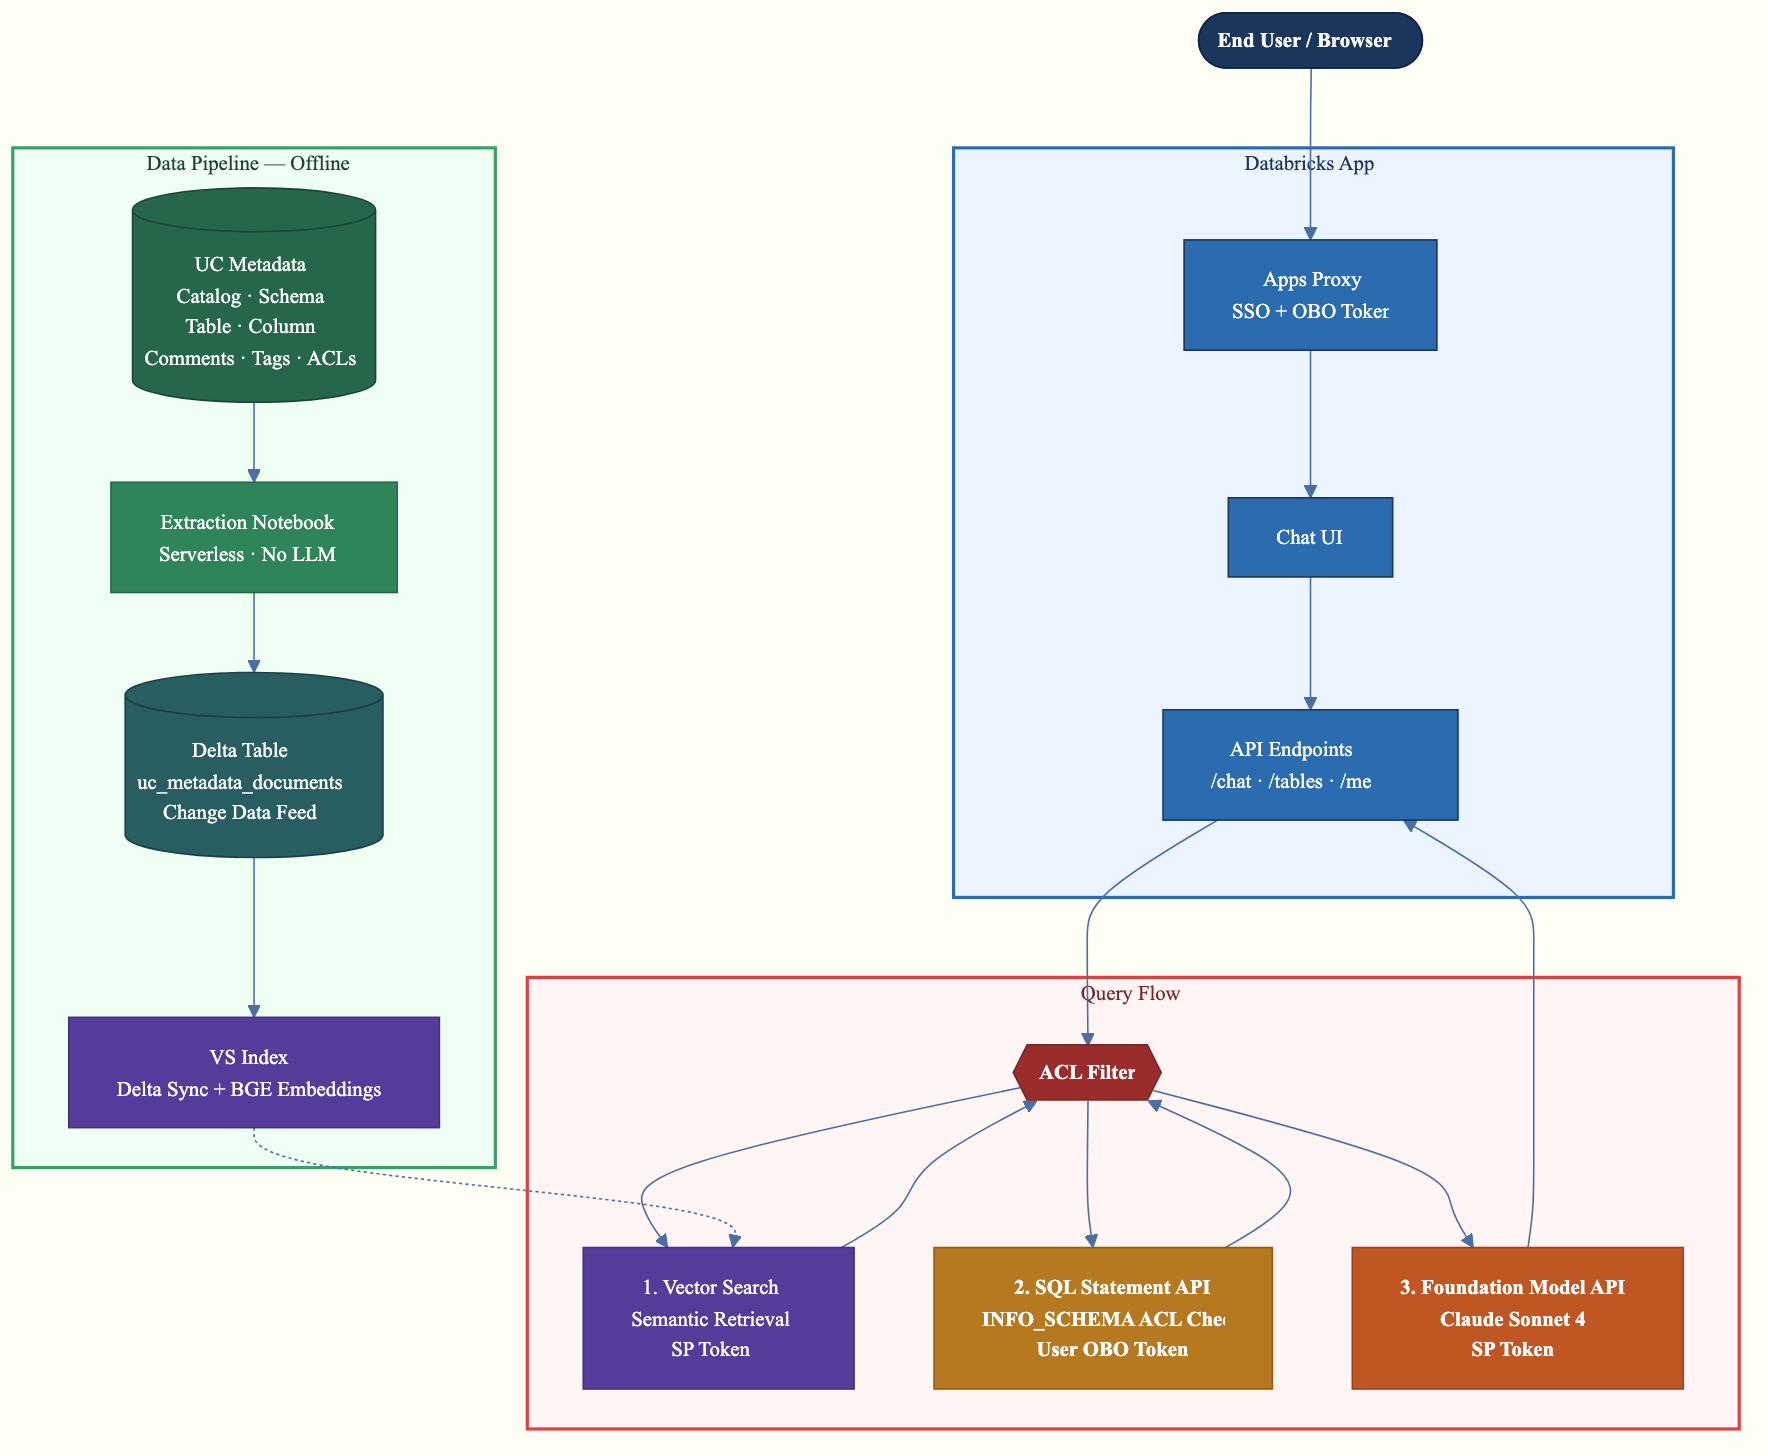
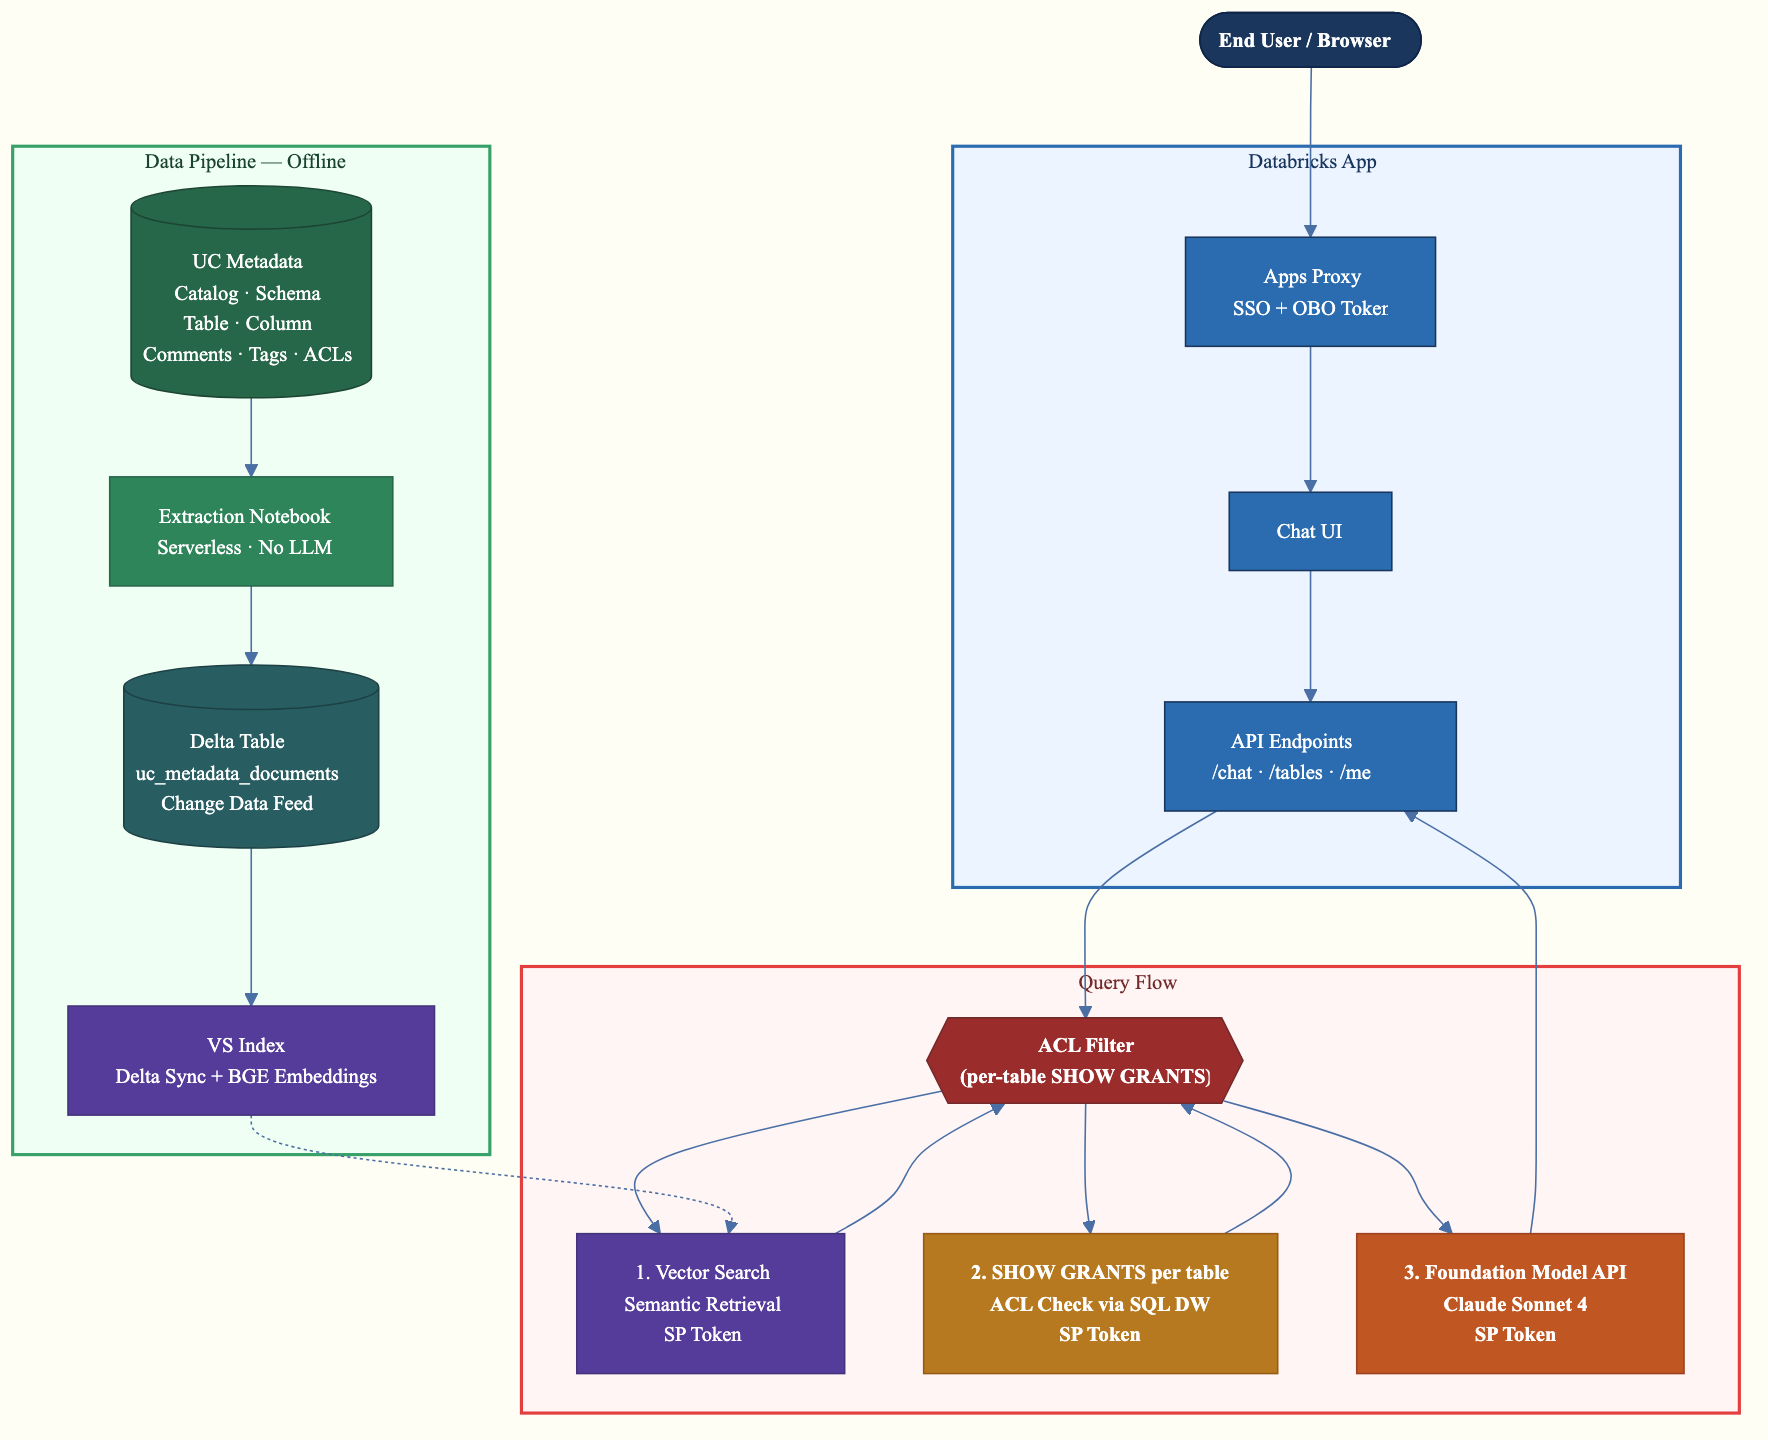
Update README and diagram for per-table SHOW GRANTS ACL
- README: Document new per-table SHOW GRANTS flow, remove OBO token
  references from auth model, update ACL section with fail-closed detail
- Diagram: Update SQL node to "SHOW GRANTS per table" with SP Token,
  update ACL filter label

diff --git a/README.md b/README.md
@@ -10,8 +10,7 @@ Descriptions are sourced directly from **user-authored UC comments** at the cata
 
 - **Natural Language Data Discovery** — Ask questions about your data catalog in plain English. The agent retrieves relevant table metadata via semantic search and generates detailed answers using an LLM.
 - **User-Authored Descriptions** — Indexes existing comments from Unity Catalog at every level (catalog, schema, table, column) plus tags. No LLM-generated descriptions — what users documented is what gets indexed.
-- **Post-Retrieval ACL Filtering** — Vector Search results are filtered against `INFORMATION_SCHEMA` using the logged-in user's on-behalf-of token, ensuring users only see metadata for tables they have access to.
-- **Dual-Token Auth** — SP token for Vector Search and LLM endpoints; user's OBO token for SQL DW ACL queries. Each API call uses the appropriate identity.
+- **Per-Table ACL Enforcement** — Each table returned by Vector Search is checked via `SHOW GRANTS` to verify the logged-in user has access. Tables the user cannot see are filtered out before reaching the LLM. Fail-closed: if access can't be verified, the table is excluded.
 - **Source Attribution** — Every answer includes source cards showing which tables were used, with relevance scores.
 - **Sidebar Table Browser** — Browse all indexed tables in the sidebar and click to learn more about any table.
 
@@ -26,10 +25,11 @@ User Question
 [1] Vector Search (semantic retrieval — SP token)
     |
     v
-[2] SQL Statement API → INFORMATION_SCHEMA (ACL check — user OBO token)
+[2] For each candidate table: SHOW GRANTS ON TABLE (SP token)
+    → Check if user's email/ID appears in grants
     |
     v
-[3] Filter VS results to only tables the user can see
+[3] Filter to only tables the user has access to
     |
     v
 [4] Foundation Model API / Claude Sonnet 4 (generate answer — SP token)
@@ -60,13 +60,25 @@ Delta Table (uc_metadata_documents, Change Data Feed enabled)
 Vector Search Index (Delta Sync, BGE-Large embeddings)
 ```
 
-### Authentication Model
+### How ACL Filtering Works
 
-| API Call | Token Used | Why |
-|----------|-----------|-----|
-| Vector Search query | **SP token** (PAT) | System-level index; ACL filtering is done post-retrieval |
-| SQL Statement API (INFORMATION_SCHEMA) | **User OBO token** | Must run as the logged-in user so results reflect their UC grants |
-| Foundation Model API (LLM) | **SP token** (PAT) | System-level serving endpoint |
+Vector Search indexes are static snapshots — they don't enforce per-user Unity Catalog permissions at query time. To prevent metadata leakage:
+
+1. Vector Search returns candidate tables based on semantic similarity
+2. For **each table**, the backend runs `SHOW GRANTS ON TABLE <table>` via the SQL Statement API
+3. `SHOW GRANTS` returns all grants **including inherited grants** from catalog and schema levels
+4. The backend checks if the logged-in user's **email** (from `x-forwarded-email`) or **user ID** (from `x-forwarded-user`) appears in the grantees, or if the table is accessible via `account users` / `users` groups
+5. **Only accessible tables** are passed to the LLM for answer generation
+6. **Fail-closed**: if a grant check fails for any reason, the table is excluded
+
+### Authentication
+
+| API Call | Token | Identity Check |
+|----------|-------|---------------|
+| Vector Search | SP token (PAT) | N/A — system-level query |
+| `SHOW GRANTS ON TABLE` | SP token (PAT) | User's email/ID matched against grant results |
+| Foundation Model API | SP token (PAT) | N/A — system-level query |
+| User identity | N/A | Extracted from Databricks Apps proxy headers (`x-forwarded-email`, `x-forwarded-user`) |
 
 ## Project Structure
 
@@ -92,7 +104,7 @@ UnityCatalogInsights/
 
 - A Databricks workspace with Unity Catalog enabled
 - Tables with comments/descriptions you want to index
-- A SQL Warehouse (for INFORMATION_SCHEMA ACL queries at runtime)
+- A SQL Warehouse (for `SHOW GRANTS` ACL checks at runtime)
 - Access to Foundation Model API endpoints (Claude Sonnet 4 for answers, BGE-Large for embeddings)
 - An existing Vector Search endpoint in ONLINE state
 
@@ -137,7 +149,7 @@ env:
   - name: DATABRICKS_HOST
     valueFrom: workspace-url
   - name: DATABRICKS_TOKEN
-    value: "<your-pat-token>"        # PAT for VS + LLM access (SP token)
+    value: "<your-pat-token>"        # PAT with access to VS, LLM, and SQL DW
   - name: VS_ENDPOINT
     value: "<your-vs-endpoint>"
   - name: VS_INDEX
@@ -145,10 +157,8 @@ env:
   - name: LLM_ENDPOINT
     value: "databricks-claude-sonnet-4"
   - name: WAREHOUSE_ID
-    value: "<your-warehouse-id>"     # SQL warehouse for OBO ACL queries
+    value: "<your-warehouse-id>"     # SQL warehouse for SHOW GRANTS checks
 ```
-
-The **user's OBO token** is automatically provided by the Databricks Apps proxy — no configuration needed for that.
 
 ### Step 4: Grant Permissions
 
@@ -158,16 +168,7 @@ The PAT owner (or service principal) needs:
 - Access to query the Vector Search endpoint
 - Access to query the Foundation Model API serving endpoints
 - Membership in the workspace `users` group (for Foundation Model API access)
-
-## How ACL Filtering Works
-
-Vector Search indexes are static snapshots — they don't enforce per-user Unity Catalog permissions at query time. To prevent metadata leakage:
-
-1. **At query time**, the backend queries `INFORMATION_SCHEMA.TABLES` via the SQL Statement API using the **user's on-behalf-of token** (not the SP token)
-2. INFORMATION_SCHEMA automatically filters results to only tables that specific user has UC grants for
-3. **Post-retrieval filter** removes any Vector Search results for tables the user can't see
-4. **Only permitted results** are sent to the LLM for answer generation
-5. Results are **cached per-user for 5 minutes** to avoid excessive SQL calls
+- Permission to run `SHOW GRANTS` on tables in the catalog
 
 ## Tech Stack
 
@@ -177,7 +178,7 @@ Vector Search indexes are static snapshots — they don't enforce per-user Unity
 | Frontend | Vanilla JS + React (CDN) + Marked.js |
 | Search | Mosaic AI Vector Search (Delta Sync, BGE-Large embeddings) |
 | LLM (answers only) | Foundation Model API (Claude Sonnet 4) |
-| ACL Enforcement | INFORMATION_SCHEMA + SQL Statement API (user OBO token) |
+| ACL Enforcement | `SHOW GRANTS ON TABLE` via SQL Statement API |
 | Deployment | Databricks Apps |
 | Data Storage | Delta Lake (with Change Data Feed) |
 | Metadata Source | Unity Catalog comments (catalog, schema, table, column) + tags |
@@ -187,7 +188,7 @@ Vector Search indexes are static snapshots — they don't enforce per-user Unity
 | Endpoint | Method | Description |
 |----------|--------|-------------|
 | `/api/health` | GET | Health check with config details |
-| `/api/me` | GET | Current user identity (from OBO headers) |
+| `/api/me` | GET | Current user identity (from proxy headers) |
 | `/api/chat` | POST | Main chat — takes `{message, num_results}`, returns `{answer, sources}` |
 | `/api/tables` | GET | List all indexed tables visible to current user |
 | `/api/table/{name}` | GET | Get detailed metadata for a specific table |
